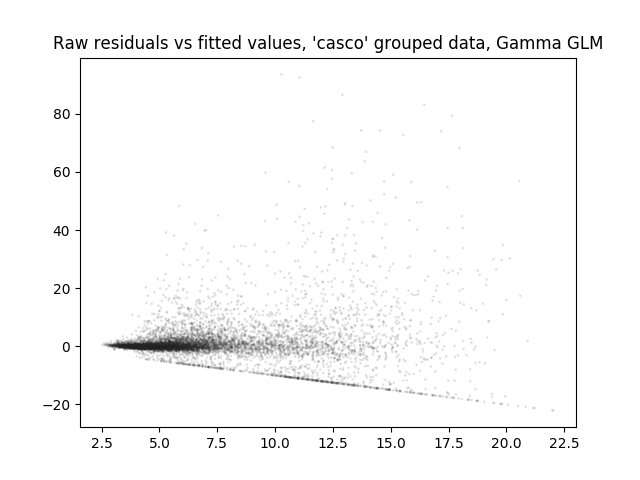
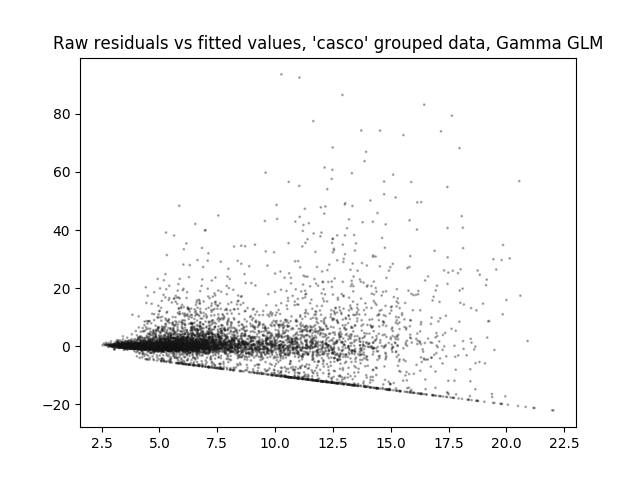
0.1

Changed region(s): [[0.1562, 0.5625, 0.7188, 0.8125], [0.625, 0.8125, 0.75, 0.8438], [0.625, 0.75, 0.6562, 0.7812]]

diff --git a/diagnostics.py b/diagnostics.py
@@ -47,8 +47,8 @@ class Diagnostics:
         y = self.cell_res[:, [1]] - self.cell_res[:, [2]]
         color = 1 - (self.cell_res[:, [0]] / np.amax(self.cell_res[:, [0]])) 
         color = np.hstack((color, color, color))
-        color = color**2 * .2
-        plt.scatter(x, y, s=1, c=color, alpha=.1)
+        color = color**2 * .1
+        plt.scatter(x, y, s=1, c=color, alpha=.3)
         plt.title('Raw residuals vs fitted values, \'' + self.claim_type + '\' grouped data, ' + self.model + ' GLM')        
         plt.savefig(plot_dir + self.model + self.claim_type + 'plot01.png')
         plt.close()

diff --git a/models.py b/models.py
@@ -301,9 +301,12 @@ class Stdout:
         self.model_type = model_type
         X_dict = file_load(model_type + '_' + claim_type + '_dict.pkl')
         prefix = 'overall'
-        keys = ('beta', 'y_bar')
-        res = grab_results_db(prefix, model, claim_type, keys)
+#        keys = ('beta', 'y_bar')
+        res = grab_results_db(prefix, model, claim_type)#, keys)
         self.beta = res['beta']
+        self.var = res['var']
+        self.std = res['std']
+        self.z_stat = res['z_stat']
         self.y_bar = res['y_bar']
         ind_res = {}
         if model_type == 'freq':
